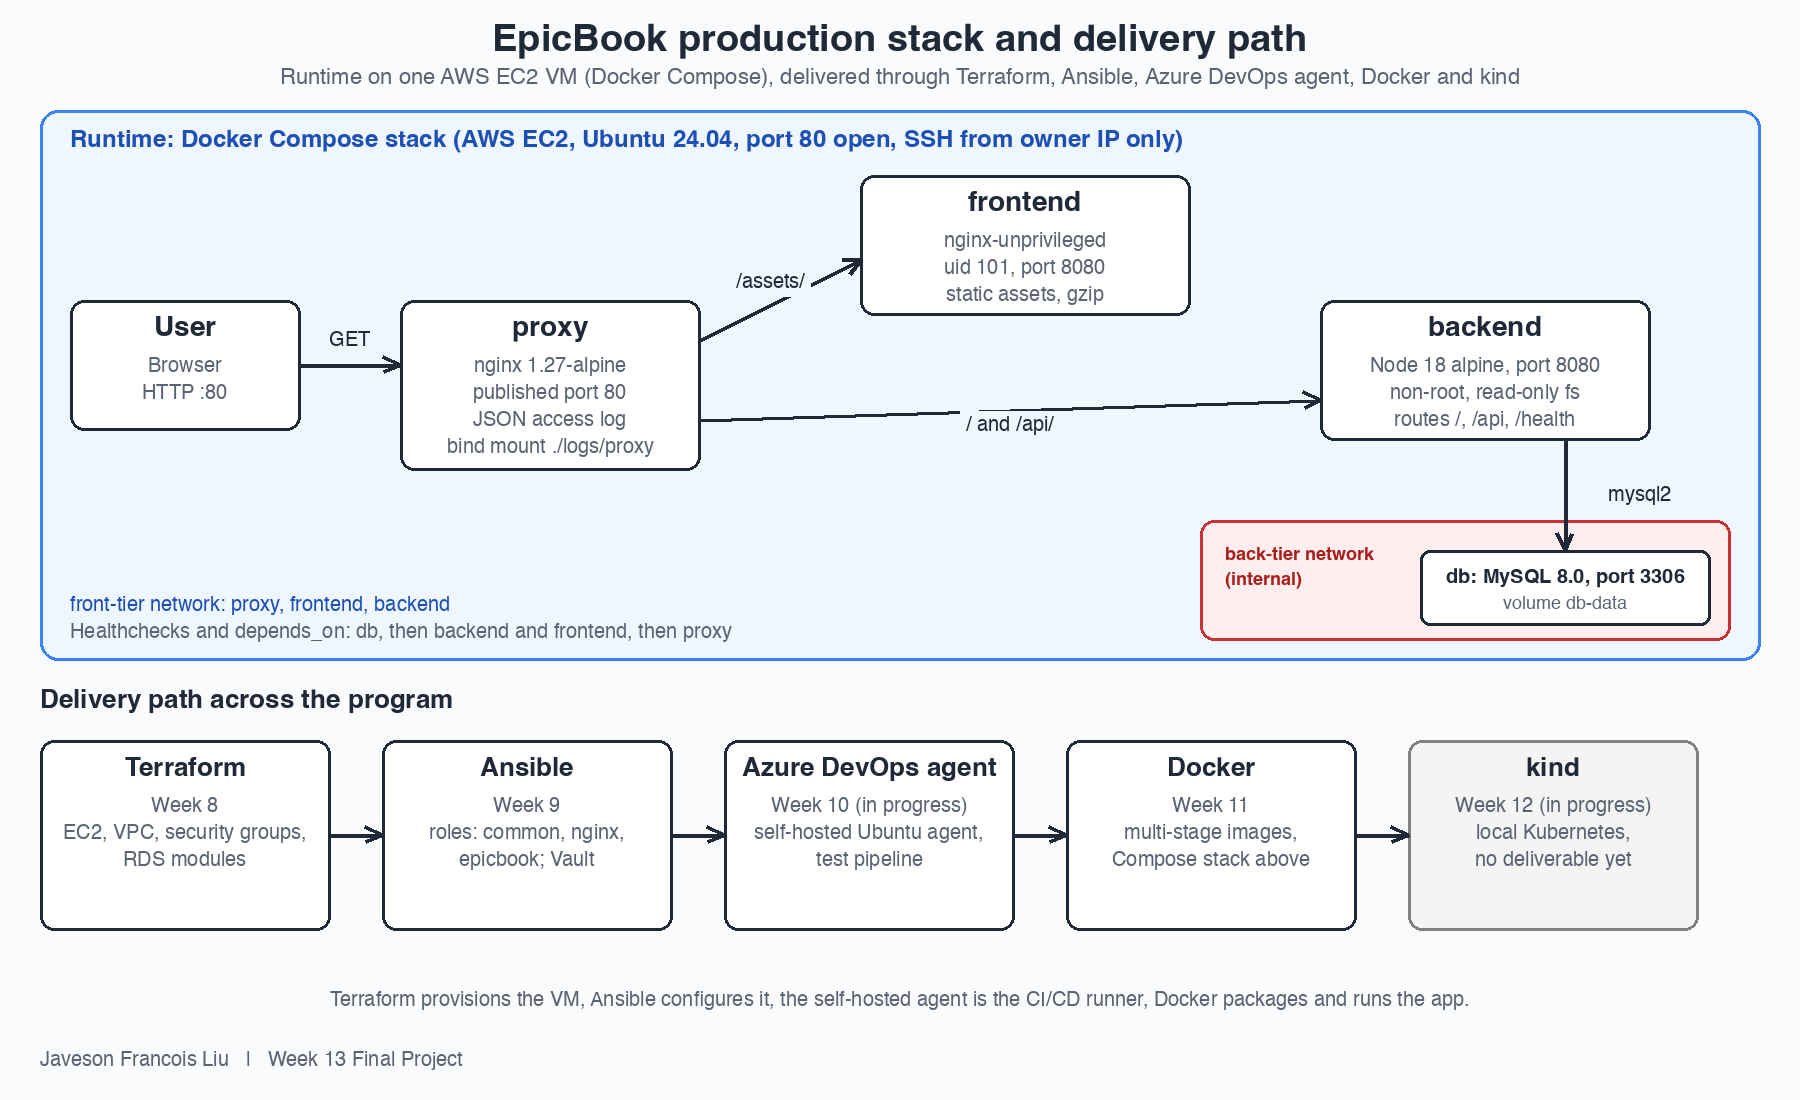
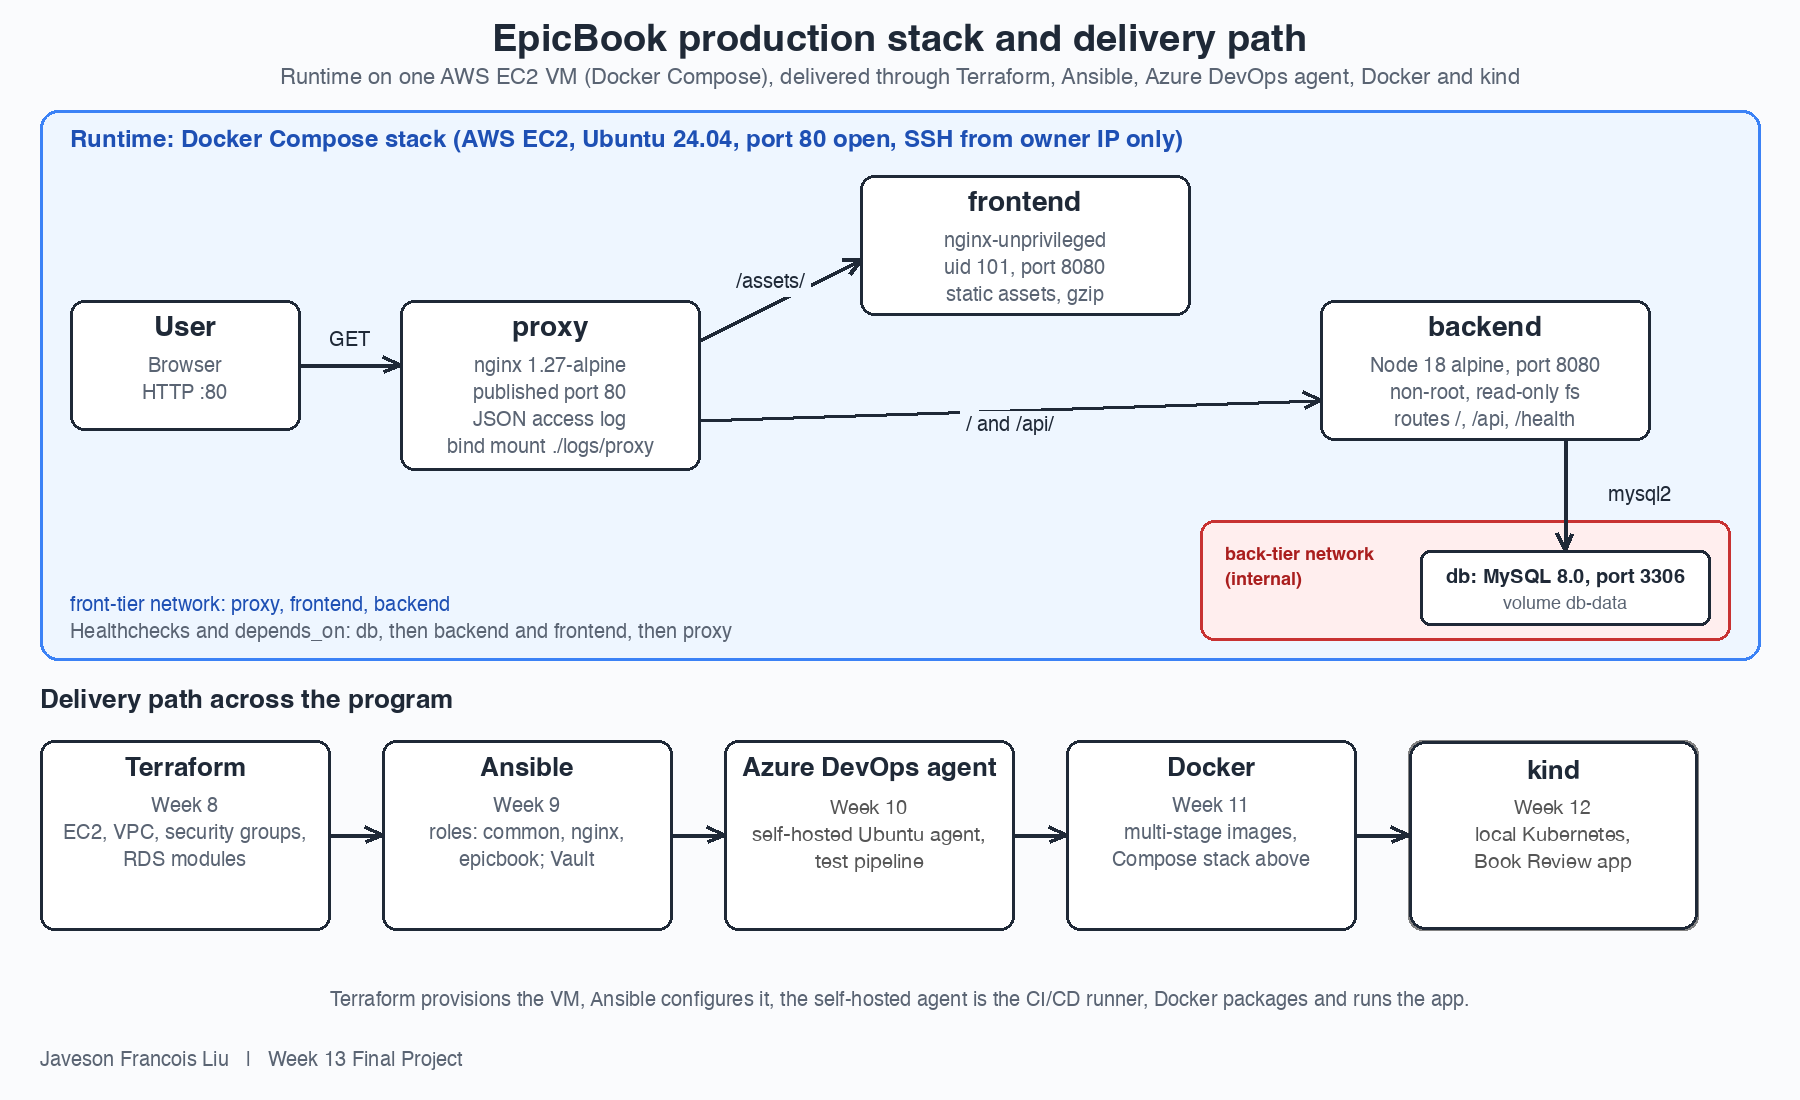
docs(dmi): fix audit findings for weeks 10, 11, 13 and README
README: badges 14/14 and Completed, fix dangling resources link, add the
Week 11 A06 post. W10 A02: remove the placeholder URL and link the
second-run screenshot. W10 A05: tick text matches the single provider
used. W11 A07: workflow link resolves on GitHub. W13 A01: diagram no
longer says Weeks 10 and 12 are in progress.

Changed region(s): [[0.4044, 0.7109, 0.56, 0.8036], [0.8089, 0.68, 0.9022, 0.8036]]

diff --git a/README.md b/README.md
@@ -2,11 +2,11 @@
 
 ![Cohort](https://img.shields.io/badge/Cohort-3-blue?style=for-the-badge)
 ![Program](https://img.shields.io/badge/DevOps_Micro_Internship-Pravin_Mishra-orange?style=for-the-badge)
-![Status](https://img.shields.io/badge/Status-In_Progress-yellow?style=for-the-badge)
-![Weeks](https://img.shields.io/badge/Weeks_Completed-9%2F14-green?style=for-the-badge)
+![Status](https://img.shields.io/badge/Status-Completed-brightgreen?style=for-the-badge)
+![Weeks](https://img.shields.io/badge/Weeks_Completed-14%2F14-green?style=for-the-badge)
 
 > 👋 **New here?** Read the [submission instructions](./onboarding) first — how to fork, fill in, and submit your assignments.
-> Find all the required links & assignment guidelines from here [Required links](./dmi_cohort3_resources.md)
+> Find all the required links & assignment guidelines from here [Required links](./dmi_resources.md)
 
 ---
 
@@ -141,7 +141,7 @@ This is not a course. It is an internship-style program — real deployments, re
 | 08 | Terraform | ✅ Completed | ✅ Solved | [A04](https://www.linkedin.com/posts/javeson-francois-liu-999135437_dmibypravinmishra-devops-terraform-ugcPost-7529447755602268160-oFgf) · [A05](https://www.linkedin.com/posts/javeson-francois-liu-999135437_dmibypravinmishra-terraform-agenticai-ugcPost-7529761375083053056-Ejfz/) · [A06](https://www.linkedin.com/posts/javeson-francois-liu-999135437_dmibypravinmishra-terraform-agenticai-ugcPost-7529761661025484800-SNqw/) | [Blog Post](https://javesonfrancoisliu.vercel.app/blog/dmi-w8-terraform) |
 | 09 | Ansible | ✅ Completed | ✅ Solved | [A02](https://www.linkedin.com/posts/javeson-francois-liu-999135437_dmibypravinmishra-devops-ansible-share-7529797603266441216-I169/) · [A03](https://www.linkedin.com/posts/javeson-francois-liu-999135437_dmibypravinmishra-devops-ansible-share-7530279157751128064-cOjl/) · [A04](https://www.linkedin.com/posts/javeson-francois-liu-999135437_dmibypravinmishra-devops-ansible-share-7530279943574953984-KqLd/) · [A05](https://www.linkedin.com/posts/javeson-francois-liu-999135437_dmibypravinmishra-devops-ansible-share-7530280437118857216-ckyJ/) · [A06](https://www.linkedin.com/posts/javeson-francois-liu-999135437_dmibypravinmishra-devops-ansible-share-7530281610592628737-vBEI/) · [Weekly](https://www.linkedin.com/posts/javeson-francois-liu-999135437_dmibypravinmishra-devops-ansible-share-7530292695215423488-jnaI/) | [Blog Post](https://javesonfrancoisliu.vercel.app/blog/dmi-w9-ansible) |
 | 10 | Azure DevOps (CI/CD) | ✅ Completed | ✅ Solved | [A02](https://www.linkedin.com/posts/javeson-francois-liu-999135437_dmibypravinmishra-devops-azuredevops-share-7530822428558622720-U54j/) · [A03](https://www.linkedin.com/posts/javeson-francois-liu-999135437_dmibypravinmishra-devops-azuredevops-share-7530823894077788160-Vlsp/) · [A04](https://www.linkedin.com/posts/javeson-francois-liu-999135437_dmibypravinmishra-devops-azuredevops-share-7531358347317366784-ZP2p/) · [A05](https://www.linkedin.com/posts/javeson-francois-liu-999135437_dmibypravinmishra-devops-azuredevops-share-7531359142620413952-rZCY/) | [Blog Post](https://javesonfrancoisliu.vercel.app/blog/dmi-w10-azure-devops) |
-| 11 | Docker | ✅ Completed | ✅ Solved | [A07](https://www.linkedin.com/posts/javeson-francois-liu-999135437_dmibypravinmishra-devops-docker-share-7531361148256956416-zOE3/) | [Blog Post](https://javesonfrancoisliu.vercel.app/blog/dmi-w11-docker) |
+| 11 | Docker | ✅ Completed | ✅ Solved | [A06](https://www.linkedin.com/posts/javeson-francois-liu-999135437_dmibypravinmishra-devops-docker-share-7531544819219750912-_KQH/) · [A07](https://www.linkedin.com/posts/javeson-francois-liu-999135437_dmibypravinmishra-devops-docker-share-7531361148256956416-zOE3/) | [Blog Post](https://javesonfrancoisliu.vercel.app/blog/dmi-w11-docker) |
 | 12 | Kubernetes | ✅ Completed | ✅ Solved | [A11](https://www.linkedin.com/posts/javeson-francois-liu-999135437_dmibypravinmishra-devops-kubernetes-share-7531361866757947392-iT1M/) | [Blog Post](https://javesonfrancoisliu.vercel.app/blog/dmi-w12-kubernetes) |
 | 13 | Final Project | ✅ Completed | ✅ Solved | [Capstone](https://www.linkedin.com/posts/javeson-francois-liu-999135437_dmibypravinmishra-devops-terraform-share-7531362527478394880-XJId/) | [Blog Post](https://javesonfrancoisliu.vercel.app/blog/dmi-w13-final-project) |
 

diff --git a/week-11-docker/assignment-07-capstone-deploy-a-production-grade-stack-for-the-epicbook.md b/week-11-docker/assignment-07-capstone-deploy-a-production-grade-stack-for-the-epicbook.md
@@ -333,7 +333,7 @@ Build a pipeline (Azure Pipelines or GitHub Actions) that builds and tags multi-
 
 #### Deliverable — `docs/08-ci-cd-pipeline.md`
 
-[`.github/workflows/epicbook-capstone-ci.yml`](../.github/workflows/epicbook-capstone-ci.yml) is the GitHub Actions workflow (build, tag with the commit sha, compose smoke test, gated SSH deploy). [`epicbook-capstone/docs/08-ci-cd-pipeline.md`](epicbook-capstone/docs/08-ci-cd-pipeline.md) describes it.
+[`.github/workflows/epicbook-capstone-ci.yml`](https://github.com/javesonfrancoisliu/devops-micro-internship-pravinmishra/blob/main/.github/workflows/epicbook-capstone-ci.yml) is the GitHub Actions workflow (build, tag with the commit sha, compose smoke test, gated SSH deploy). [`epicbook-capstone/docs/08-ci-cd-pipeline.md`](epicbook-capstone/docs/08-ci-cd-pipeline.md) describes it.
 
 ---
 

diff --git a/week-10-azure-devops/assignment-02-deploy-a-static-website-to-aws-ec2-using-an-azure-devops-cicd-pipeline.md b/week-10-azure-devops/assignment-02-deploy-a-static-website-to-aws-ec2-using-an-azure-devops-cicd-pipeline.md
@@ -154,13 +154,17 @@ Add a browser screenshot showing:
 
 ![Screenshot 5: Deployed website with the updated footer](screenshots/a2-ss5-website.png)
 
+#### Automatic trigger on a new commit
+
+A second pushed commit started another pipeline run without a manual trigger:
+
+![Second pipeline run triggered automatically by a new commit](screenshots/a2-extra-second-run.png)
+
 ## Final Website URL
 
-`http://<target-vm-public-ip>`
-
-Replace the placeholder with your actual website URL:
-
 http://56.68.115.162
+
+The EC2 instance was destroyed after grading evidence was captured, so the URL no longer responds. Screenshots 5 and 6 and the second-run screenshot show the deployment.
 
 ---
 

diff --git a/week-10-azure-devops/assignment-05-ai-assisted-azure-devops-dual-pipeline-failure-triage.md b/week-10-azure-devops/assignment-05-ai-assisted-azure-devops-dual-pipeline-failure-triage.md
@@ -170,7 +170,7 @@ Your submission must include:
 
 # Completion Checklist
 
-- [x] Task 1: Healthy baseline confirmed on both providers before starting (Screenshot 1)
+- [x] Task 1: Healthy baseline confirmed on Azure DevOps before starting (the only pipeline provider used) (Screenshot 1)
 - [x] Task 2: `CLAUDE.md` created with the workflow and safety rules (Screenshot 2)
 - [x] Task 3: `pipeline-triage.sh` built with all five failure-category checks (Screenshot 3)
 - [x] Task 4: Script run against the healthy pipeline showing a clean result (Screenshot 4)
